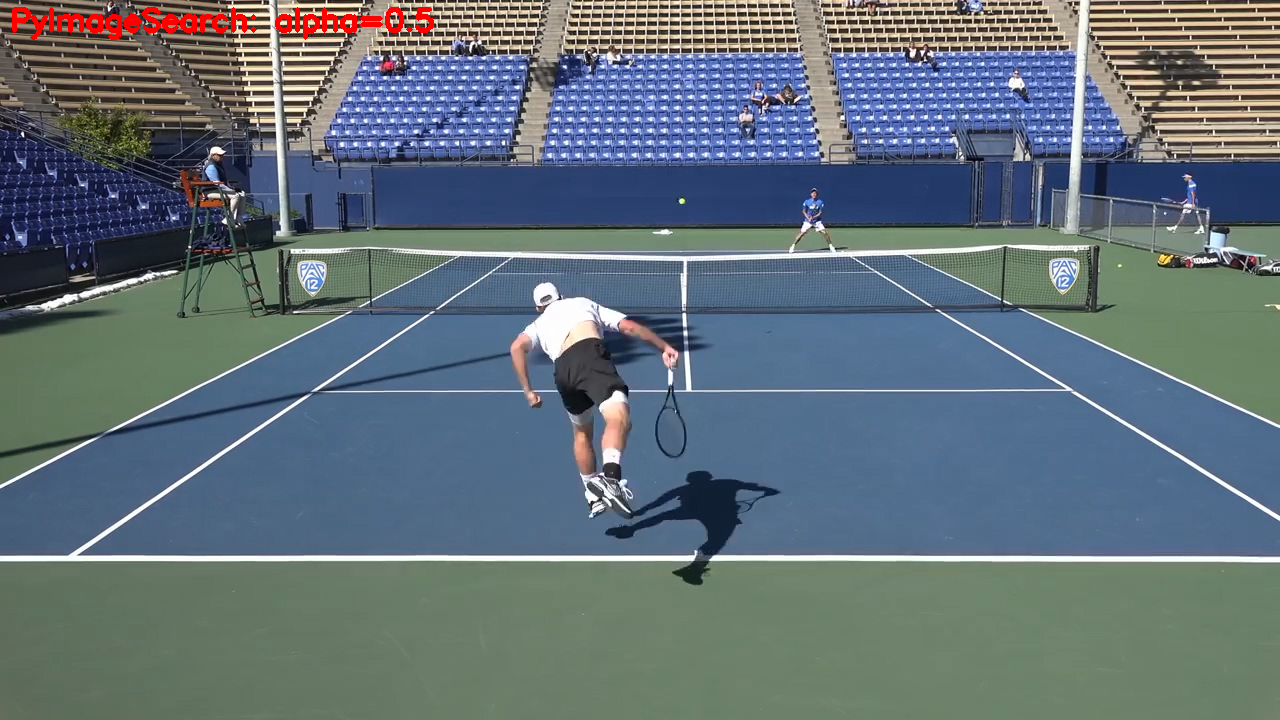
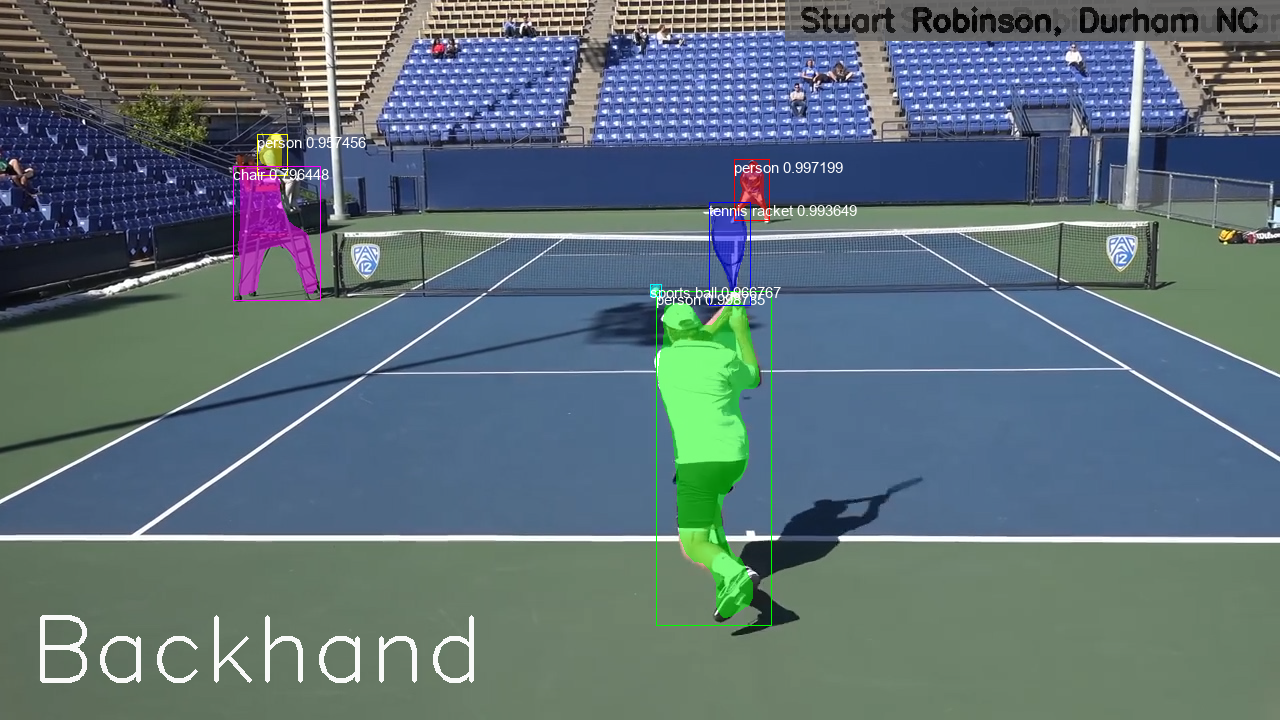
getting closer

diff --git a/brownlee_maskrcnn/swing_detector.py b/brownlee_maskrcnn/swing_detector.py
@@ -372,53 +372,53 @@ df['bRadiusAndCoords'] = df.apply(lambda x: getTennisBallRadiusAndCoordinates(x,
 
 df[['bRadius', 'bx', 'by']] = pd.DataFrame(df['bRadiusAndCoords'].tolist(), index=df.index)
 
-df['bx_e'] = df['bx']
-df['by_e'] = df['by']
+df['bxe'] = df['bx']
+df['bye'] = df['by']
 
 for i in range(30, len(df) - 1):
-    x = df['bx_e'].values[i]
-    y = df['by_e'].values[i]
-    xNext = df['bx_e'].values[i + 1]
-    yNext = df['by_e'].values[i + 1]
-    xPrev1 = df['bx_e'].values[i - 1]
-    yPrev1 = df['by_e'].values[i - 1]
-    xPrev2 = df['bx_e'].values[i - 2]
-    yPrev2 = df['by_e'].values[i - 2]
-    xPrev3 = df['bx_e'].values[i - 3]
-    yPrev3 = df['by_e'].values[i - 3]
-    xPrev4 = df['bx_e'].values[i - 4]
-    yPrev4 = df['by_e'].values[i - 4]
+    x = df['bxe'].values[i]
+    y = df['bye'].values[i]
+    xNext = df['bxe'].values[i + 1]
+    yNext = df['bye'].values[i + 1]
+    xPrev1 = df['bxe'].values[i - 1]
+    yPrev1 = df['bye'].values[i - 1]
+    xPrev2 = df['bxe'].values[i - 2]
+    yPrev2 = df['bye'].values[i - 2]
+    xPrev3 = df['bxe'].values[i - 3]
+    yPrev3 = df['bye'].values[i - 3]
+    xPrev4 = df['bxe'].values[i - 4]
+    yPrev4 = df['bye'].values[i - 4]
     if pd.isna(x) and not pd.isna(xNext):
         if not pd.isna(xPrev1):
-            df['bx_e'].values[i] = (xPrev1 + xNext) / 2
-            df['by_e'].values[i] = (yPrev1 + yNext) / 2
+            df['bxe'].values[i] = (xPrev1 + xNext) / 2
+            df['bye'].values[i] = (yPrev1 + yNext) / 2
         elif not pd.isna(xPrev2):
             x_lenPer = (xNext - xPrev2) / 3
             y_lenPer = (yNext - yPrev2) / 3
-            df['bx_e'].values[i] = xNext - x_lenPer
-            df['by_e'].values[i] = yNext - y_lenPer
-            df['bx_e'].values[i - 1] = xNext - 2 * x_lenPer
-            df['by_e'].values[i - 1] = yNext - 2 * y_lenPer
+            df['bxe'].values[i] = xNext - x_lenPer
+            df['bye'].values[i] = yNext - y_lenPer
+            df['bxe'].values[i - 1] = xNext - 2 * x_lenPer
+            df['bye'].values[i - 1] = yNext - 2 * y_lenPer
         elif not pd.isna(xPrev3):
             x_lenPer = (xNext - xPrev3) / 4
             y_lenPer = (yNext - yPrev3) / 4
-            df['bx_e'].values[i] = xNext - x_lenPer
-            df['by_e'].values[i] = yNext - y_lenPer
-            df['bx_e'].values[i - 1] = xNext - 2 * x_lenPer
-            df['by_e'].values[i - 1] = yNext - 2 * y_lenPer
-            df['bx_e'].values[i - 2] = xNext - 3 * x_lenPer
-            df['by_e'].values[i - 2] = yNext - 3 * y_lenPer
+            df['bxe'].values[i] = xNext - x_lenPer
+            df['bye'].values[i] = yNext - y_lenPer
+            df['bxe'].values[i - 1] = xNext - 2 * x_lenPer
+            df['bye'].values[i - 1] = yNext - 2 * y_lenPer
+            df['bxe'].values[i - 2] = xNext - 3 * x_lenPer
+            df['bye'].values[i - 2] = yNext - 3 * y_lenPer
         elif not pd.isna(xPrev4):
             x_lenPer = (xNext - xPrev4) / 5
             y_lenPer = (yNext - yPrev4) / 5
-            df['bx_e'].values[i] = xNext - x_lenPer
-            df['by_e'].values[i] = yNext - y_lenPer
-            df['bx_e'].values[i - 1] = xNext - 2 * x_lenPer
-            df['by_e'].values[i - 1] = yNext - 2 * y_lenPer
-            df['bx_e'].values[i - 2] = xNext - 3 * x_lenPer
-            df['by_e'].values[i - 2] = yNext - 3 * y_lenPer
-            df['bx_e'].values[i - 3] = xNext - 4 * x_lenPer
-            df['by_e'].values[i - 3] = yNext - 4 * y_lenPer
+            df['bxe'].values[i] = xNext - x_lenPer
+            df['bye'].values[i] = yNext - y_lenPer
+            df['bxe'].values[i - 1] = xNext - 2 * x_lenPer
+            df['bye'].values[i - 1] = yNext - 2 * y_lenPer
+            df['bxe'].values[i - 2] = xNext - 3 * x_lenPer
+            df['bye'].values[i - 2] = yNext - 3 * y_lenPer
+            df['bxe'].values[i - 3] = xNext - 4 * x_lenPer
+            df['bye'].values[i - 3] = yNext - 4 * y_lenPer
 
 df['isBallTrackStart'] = False
 df['isBallTrackStart'].values[47] = True
@@ -429,6 +429,14 @@ df['isBallTrackStart'].values[342] = True
 df['isBallTrackStart'].values[413] = True
 df['isBallTrackStart'].values[575] = True
 
+################################################################################################################
+################################################################################################################
+################################################################################################################
+
+################################################################################################################
+################################################################################################################
+################################################################################################################
+
 # dont use expected coordinates for plotting the arc!  only to know how far out to draw it per frame
 
 # lets start by just drawing line for the next 20 frames.
@@ -436,18 +444,27 @@ df['isBallTrackStart'].values[575] = True
 
 from scipy import interpolate
 
-tcks = {}
+splines = {}
 
 count = 0
 for i in range(30, len(df) - 1):
+    frameNumber = i + 1
     if df['isBallTrackStart'].values[i]:
         count += 1
-        X = df['bx'].loc[i:i + 20].dropna().tolist()
-        Y = df['by'].loc[i:i + 20].dropna().tolist()
+        X = df['bx'].loc[i:i + 15].dropna().tolist()
+        Y = df['by'].loc[i:i + 15].dropna().tolist()
+        df2 = pd.DataFrame({'X': X, 'Y': Y})
+        df2 = df2.sort_values('X')
+        X_sorted = df2['X'].tolist()
+        Y_sorted = df2['Y'].tolist()
+        print()
+        print(X)
+        print(X_sorted)
+        print()
         # print(X)
-        # X_e = df['bx_e'].loc[i:i + 20].dropna().tolist()
-        # Y_e = df['by_e'].loc[i:i + 20].dropna().tolist()
-        tcks[i] = interpolate.splrep(X, Y)
+        # X_e = df['bxe'].loc[i:i + 20].dropna().tolist()
+        # Y_e = df['bye'].loc[i:i + 20].dropna().tolist()
+        splines[frameNumber] = {"tck": interpolate.splrep(X_sorted, Y_sorted), "X": X, "Y": Y}
 
 
 # https://stackoverflow.com/a/31544486/8870055
@@ -466,44 +483,64 @@ print(f(1.25))
 import numpy as np
 import cv2
 
-# inputImage = '/Users/stuartrobinson/repos/computervision/andre_aigassi/images/Screen Shot 2019-05-28 at 8.59.26 pm.png'
-inputImage = '/Users/stuartrobinson/repos/computervision/andre_aigassi/images/tennis_video/frames/raw/19sec/000052.png'
+from numpy import ones, vstack
+from numpy.linalg import lstsq
 
-# load the image
+
+def getStartFrameForFrame(frame):
+    return df.query(f'f < {frame} and isBallTrackStart == True').tail(1)['f'].values[0]
+
+
+def getRadius(x):
+    return df.query(f'f <= {frame} and f >= {startFrame}').sort_values('bx').query(f'bx <= {x + 10}').tail(1)['bRadius'].values[0]
+
+
+frame = 267
+inputImage = ex4.getMrcnnImgPath("19sec", frame)
 image = cv2.imread(inputImage)
-# loop over the alpha transparency values
-# for alpha in np.arange(0, 1.1, 0.1)[::-1]:
-
-alpha = 0.5
-alpha2 = 1
-# create two copies of the original image -- one for
-# the overlay and one for the final output image
+alpha = 0.8
 overlay = image.copy()
-overlay2 = image.copy()
 output = image.copy()
-#
-# draw a red rectangle surrounding Adrian in the image
-# along with the text "PyImageSearch" at the top-left
-# corner
-cv2.rectangle(overlay, (420, 205), (595, 385), (0, 0, 255), -1)
+
+# cv2.rectangle(overlay, (420, 205), (595, 385), (0, 0, 255), -1)
 cv2.rectangle(overlay, (820, 405), (695, 785), (255, 0, 255), -1)
-cv2.putText(overlay2, "PyImageSearch: alpha={}".format(alpha), (10, 30), cv2.FONT_HERSHEY_SIMPLEX, 1.0, (0, 0, 255), 3)
-# apply the overlay
+
+startFrame = getStartFrameForFrame(frame)
+
+spline = splines[startFrame]
+
+bx = df.query(f'f == {frame}')['bx'].values[0]
+by = df.query(f'f == {frame}')['by'].values[0]
+swing = df.query(f'f == {frame}')['swing'].values[0]
+
+minx = min(int(spline["X"][0]), int(bx))
+maxx = max(int(spline["X"][0]), int(bx))
+
+minxRadius = getRadius(minx)
+maxxRadius = getRadius(maxx)
+
+points = [(minx, minxRadius), (maxx, maxxRadius)]
+x_coords, y_coords = zip(*points)
+A = vstack([x_coords, ones(len(x_coords))]).T
+m, c = lstsq(A, y_coords)[0]
+print("Line Solution is y = {m}x + {c}".format(m=m, c=c))
+
+
+def getRadiusFunction(x):
+    return m * x + c
+
+
+for x in range(minx, maxx):
+    tck = spline["tck"]
+    y = int(interpolate.splev(x, tck))
+    radius = int(getRadiusFunction(x))
+    print(x, y, radius)
+    cv2.circle(overlay, (x, y), radius, (255, 255, 0))
+
+width = image.shape[1]
+height = image.shape[0]
+cv2.rectangle(overlay, (image.shape[1] - 495, 0), (image.shape[1], 40), (100, 100, 100), -1)
+cv2.putText(overlay, "Stuart Robinson, Durham NC", (width - 480, 30), cv2.FONT_HERSHEY_SIMPLEX, 1, (0, 0, 0), 3)
+cv2.putText(overlay, swing, (30, image.shape[0] - 40), cv2.FONT_HERSHEY_SIMPLEX, 3.0, (255, 255, 255), 3)
 cv2.addWeighted(overlay, alpha, output, 1 - alpha, 0, output)
-cv2.addWeighted(overlay2, alpha2, output, 1 - alpha2, 0, output)
-# show the output image
-print("alpha={}, beta={}".format(alpha, 1 - alpha))
-# cv2.imshow("Output", output)
-# cv2.waitKey(0)
 cv2.imwrite('cvout.png', output)
-
-# mask? https://stackoverflow.com/questions/10469235/opencv-apply-mask-to-a-color-image/38493075
-
-# TODO - plan:  make map of splines per starting frame - spline represnted by tck (see above)
-# use tck in a function to get y value per x.
-# draw a circle per point on the line http://www.swarthmore.edu/NatSci/mzucker1/opencv-2.4.10-docs/modules/core/doc/drawing_functions.html
-# same radius per circle for now (well, use the tennis ball radius as segmented
-# per frame, get the expected coordinate of ball.  draw the line from starting coordinates over to that coordinate
-# hold the contrail on the page.  after it's finished, start rapidly fading out per frame.  to be gone well before next hit
-
-# figure out masks to put contrail on other side of player and racket
